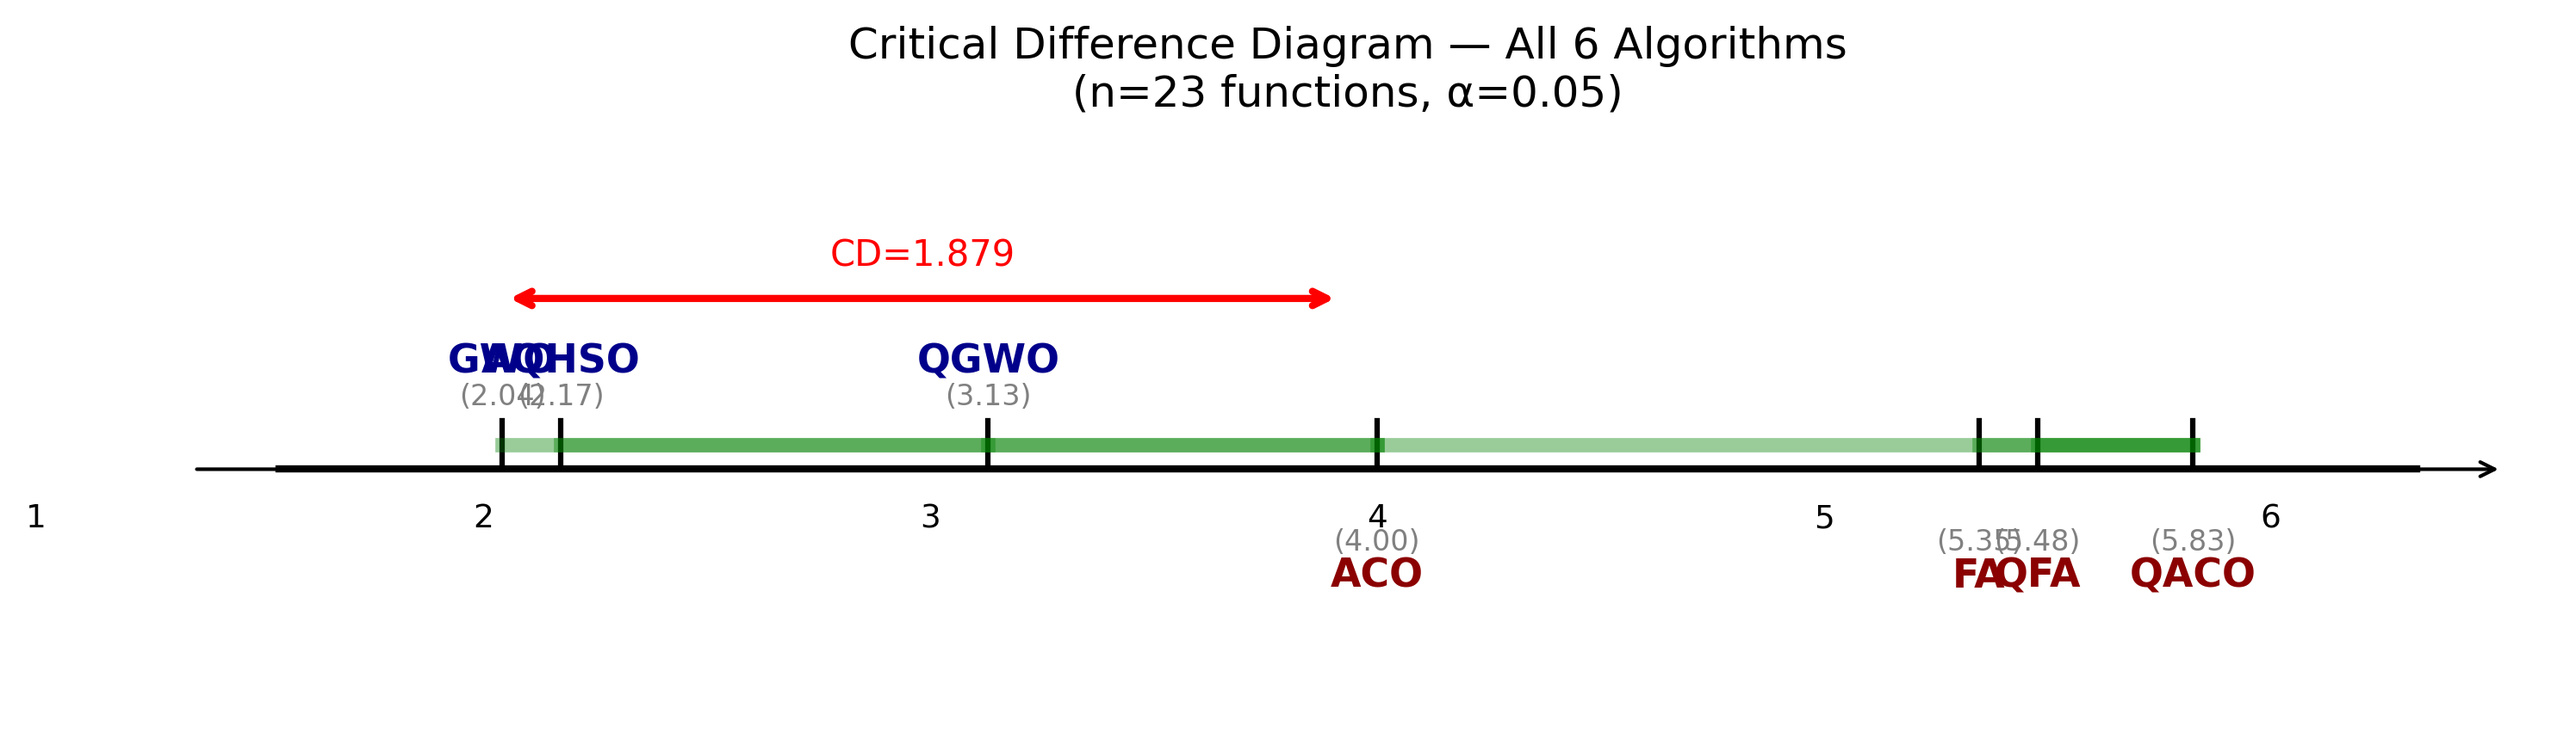
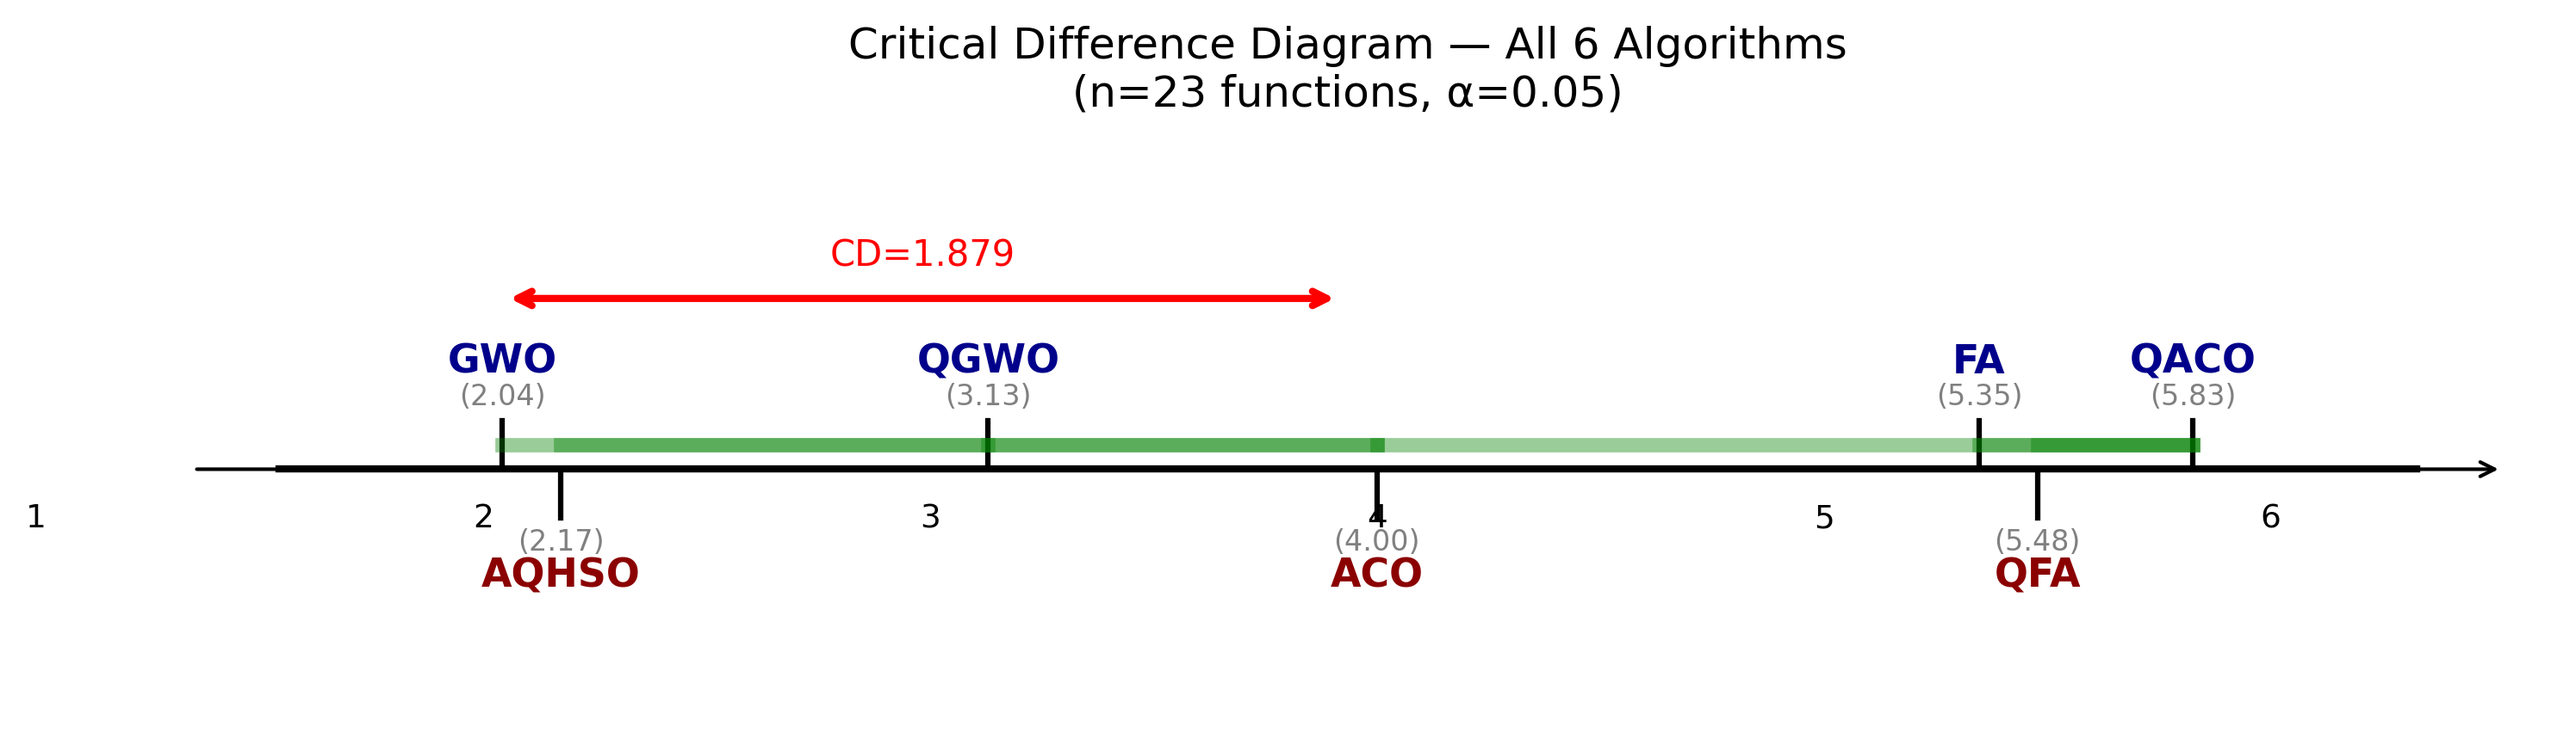
Fix cd diagram text overlapping

diff --git a/quantum_benchmark/stats/statistical_tests.py b/quantum_benchmark/stats/statistical_tests.py
@@ -279,16 +279,16 @@ def plot_cd_diagram(avg_ranks_dict, cd, n_functions, title="CD Diagram"):
     ax.plot([min_rank, max_rank], [0, 0], 'k-', linewidth=2)
 
     # Algorithm ticks
-    half = k // 2
     for i, (algo, rank) in enumerate(zip(algos, ranks)):
-        ax.plot([rank, rank], [0, 0.1], 'k-', linewidth=1.5)
         # Alternate label above/below for readability
-        if i < half:
+        if i % 2 == 0:
+            ax.plot([rank, rank], [0, 0.1], 'k-', linewidth=1.5)
             ax.text(rank, 0.18, algo, ha='center', va='bottom',
                     fontsize=11, fontweight='bold', color='darkblue')
             ax.text(rank, 0.12, f"({rank:.2f})", ha='center', va='bottom',
                     fontsize=8, color='gray')
         else:
+            ax.plot([rank, rank], [0, -0.1], 'k-', linewidth=1.5)
             ax.text(rank, -0.18, algo, ha='center', va='top',
                     fontsize=11, fontweight='bold', color='darkred')
             ax.text(rank, -0.12, f"({rank:.2f})", ha='center', va='top',
